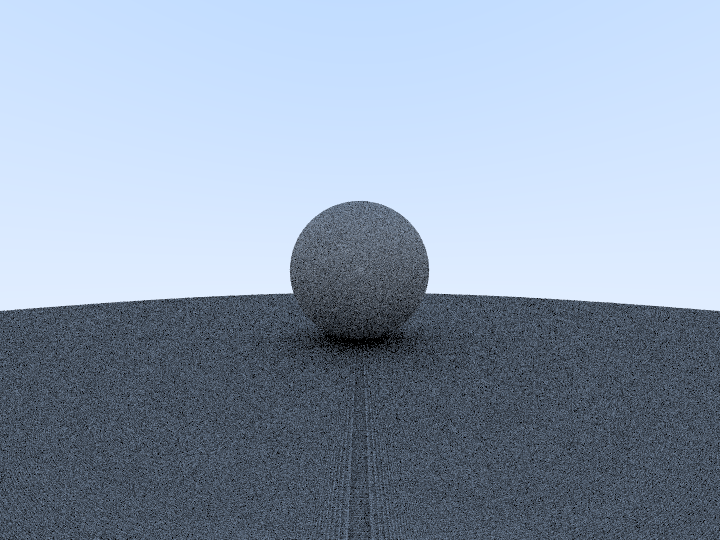
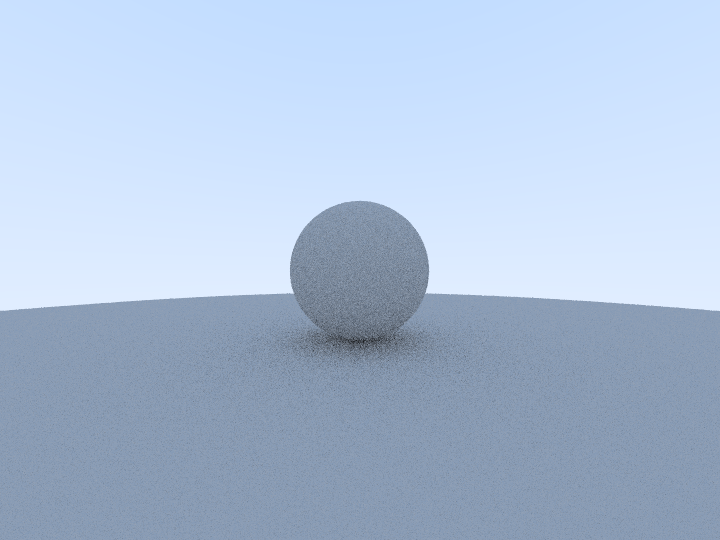
[ADD] 1. add main window; 2. fix shadow acne; 3. use true Lambertian reflection.

diff --git a/engine/rrt/RrtTest.cpp b/engine/rrt/RrtTest.cpp
@@ -17,7 +17,8 @@
 #include "Ray.h"
 #include "Sphere.h"
 #include "HittableList.h"
-#include "GeoLib.h"
+
+#include "GfxLib.h"
 
 #include "SystemUtil.h"
 #include "AssetsMgr.h"
@@ -90,28 +91,27 @@ void RrtTest::draw(const RrtCamera& camera, int width, int height, int channel, 
 		LOG_INFO("scanlines remaining: %d", height - 1 - row);
 		for (int col = 0; col < width; ++col)
 		{
-			outputCol = col;
-			outputRow = height - 1 - row;
-
 			glm::vec3 sampleColor{0.f};
 			float scale = 1.f / float(sampleCnt);
 
-			// antialiasing
+			// create a number of samples to form an average color of a pixel to perform antialiasing
 			for (int i = 0; i < sampleCnt; ++i)
 			{
-				u = (col + GeoLib::random()) / float(width - 1);
-				v = (row + GeoLib::random()) / float(height - 1);
+				u = (col + GfxLib::random()) / float(width - 1);
+				v = (row + GfxLib::random()) / float(height - 1);
 				Ray ray = camera.getRay(u, v);
 				glm::vec3 ret = rayColorDiffuse(ray, world, 0.5f, 10);
 				ret = ret * scale;
 				sampleColor = sampleColor + ret;
 			}
 
-			sampleColor = GeoLib::gamma2Correct(sampleColor);
+			sampleColor = GfxLib::gamma2Correct(sampleColor);
 
-			data[(outputRow * width + outputCol) * channel + 0] = static_cast<uint8_t>(256 * GeoLib::clamp(sampleColor.x, 0.f, 0.999f));
-			data[(outputRow * width + outputCol) * channel + 1] = static_cast<uint8_t>(256 * GeoLib::clamp(sampleColor.y, 0.f, 0.999f));
-			data[(outputRow * width + outputCol) * channel + 2] = static_cast<uint8_t>(256 * GeoLib::clamp(sampleColor.z, 0.f, 0.999f));
+			outputCol = col;
+			outputRow = height - 1 - row;
+			data[(outputRow * width + outputCol) * channel + 0] = static_cast<uint8_t>(256 * GfxLib::clamp(sampleColor.x, 0.f, 0.999f));
+			data[(outputRow * width + outputCol) * channel + 1] = static_cast<uint8_t>(256 * GfxLib::clamp(sampleColor.y, 0.f, 0.999f));
+			data[(outputRow * width + outputCol) * channel + 2] = static_cast<uint8_t>(256 * GfxLib::clamp(sampleColor.z, 0.f, 0.999f));
 		}
 	}
 }
@@ -119,7 +119,8 @@ void RrtTest::draw(const RrtCamera& camera, int width, int height, int channel, 
 glm::vec3 RrtTest::rayColor(const Ray& ray, const Hittable& obj)
 {
 	HitRecord rec;
-	obj.hit(ray, 0.f, FLT_MAX, rec);
+	// use 0.001 instead of 0.f to fix shadow acne
+	obj.hit(ray, 0.001f, FLT_MAX, rec);
 
 	if (rec.hit)
 	{
@@ -133,7 +134,7 @@ glm::vec3 RrtTest::rayColor(const Ray& ray, const Hittable& obj)
 	{
 		glm::vec3 startColor{ 1.f }, endColor{ 0.5f, 0.7f, 1.f };
 		float t = (ray.direction().y + 1.f) * 0.5f;
-		return GeoLib::blend(startColor, endColor, t);
+		return GfxLib::blend(startColor, endColor, t);
 	}
 }
 
@@ -142,11 +143,16 @@ glm::vec3 RrtTest::rayColorDiffuse(const Ray& ray, const Hittable& obj, float re
 	if (reflectDepth <= 0) return glm::vec3(0.f);
 
 	HitRecord rec;
-	obj.hit(ray, 0.f, FLT_MAX, rec);
+	// use 0.001 instead of 0.f to fix shadow acne
+	obj.hit(ray, 0.001f, FLT_MAX, rec);
 
 	if (rec.hit)
 	{
-		glm::vec3 target = rec.pt + rec.n + GeoLib::randomInUnitSphere();
+		// the direction of reflection ray for diffuse material is random(unknown)
+		// so we create a random method to simulate it 
+		// if the target point is on the sphere surface, it produces true Lambertian reflection
+		// reflected ray for Lambertian reflection has higher probability to be scattered close to normal, and its distribution is uniform.
+		glm::vec3 target = rec.pt + rec.n + GfxLib::randomOnUnitSphere();
 		Ray reflect{rec.pt, glm::normalize(target - rec.pt)};
 		return reflectRatio * rayColorDiffuse(reflect, obj, reflectRatio, --reflectDepth);
 	}
@@ -154,6 +160,6 @@ glm::vec3 RrtTest::rayColorDiffuse(const Ray& ray, const Hittable& obj, float re
 	{
 		glm::vec3 startColor{ 1.f }, endColor{ 0.5f, 0.7f, 1.f };
 		float t = (ray.direction().y + 1.f) * 0.5f;
-		return GeoLib::blend(startColor, endColor, t);
+		return GfxLib::blend(startColor, endColor, t);
 	}
 }

diff --git a/engine/gfx/GfxLib.cpp b/engine/gfx/GfxLib.cpp
@@ -1,0 +1,88 @@
+#include <cmath>
+#include <cstdlib>
+
+#include "GfxLib.h"
+
+#include "ViewLib.h"
+
+#include "Ray.h"
+
+#include "Logger.h"
+#ifdef LOCAL_TAG
+#undef LOCAL_TAG
+#endif
+#define LOCAL_TAG "GfxLib"
+
+glm::vec3 GfxLib::blend(const glm::vec3& start, const glm::vec3& end, float t)
+{
+    if (t < 0.f)
+        t = 0.f;
+    else if (t > 1.f)
+        t = 1.f;
+
+    return (1 - t) * start + t * end;
+}
+
+float GfxLib::clamp(float val, float min, float max)
+{
+    if (val < min)
+        return min;
+    else if (val > max)
+        return max;
+    return val;
+}
+
+glm::vec3 GfxLib::gamma2Correct(const glm::vec3& color)
+{
+    glm::vec3 ret;
+    ret.x = std::sqrt(color.x);
+    ret.y = std::sqrt(color.y);
+    ret.z = std::sqrt(color.z);
+    return ret;
+}
+
+double GfxLib::random()
+{
+    // returns a random real in [0, 1)
+    return std::rand() / (RAND_MAX + 1.f);
+}
+
+double GfxLib::random(double min, double max)
+{
+    return min + (max - min) * random();
+}
+
+glm::vec3 GfxLib::randomVec3(double min, double max)
+{
+    return glm::vec3(random(min, max), random(min, max), random(min, max));
+}
+
+glm::vec3 GfxLib::randomInUnitSphere()
+{
+    float theta = random(0.f, 180.f);
+    float phi = random(0.f, 360.f);
+    float radius = random();
+
+    glm::vec3 ret;
+    ViewLib::SCStoCCS(theta, phi, radius, ret);
+
+    return ret;
+
+    /*while (true)
+    {
+        glm::vec3 ret = randomVec3(-1.f, 1.f);
+        if (glm::length(ret) >= 1.f) continue;
+        return ret;
+    }*/
+}
+
+glm::vec3 GfxLib::randomOnUnitSphere()
+{
+    float theta = random(0.f, 180.f);
+    float phi = random(0.f, 360.f);
+
+    glm::vec3 ret;
+    ViewLib::SCStoCCS(theta, phi, 1.f, ret);
+
+    return ret;
+}

diff --git a/ui/LrMainWindow.cpp b/ui/LrMainWindow.cpp
@@ -1,0 +1,52 @@
+#include <QtWidgets/qpushbutton.h>
+#include <QtWidgets/qboxlayout.h>
+#include <QtCore/qrect.h>
+
+#include "LrMainWindow.h"
+#include "LrWidget.h"
+
+#include "RrtTest.h"
+
+#include "Logger.h"
+#ifdef LOCAL_TAG
+#undef LOCAL_TAG
+#endif
+#define LOCAL_TAG "LrMainWindow"
+
+LrMainWindow::LrMainWindow() : QMainWindow(), m_mainWidget(nullptr)
+{
+    QWidget* central = new QWidget;
+    this->setCentralWidget(central);
+
+    QVBoxLayout* mainLayout = new QVBoxLayout;
+
+    m_mainWidget = new LrWidget;
+
+    QPushButton* btn = new QPushButton("Btn0: print Ray Tracing");
+    QFontMetrics metrics(btn->font());
+    int txtWidth = metrics.boundingRect(btn->text()).width();
+    int txtHeight = metrics.boundingRect(btn->text()).height();
+    int padding = 10;
+    btn->setFixedSize(txtWidth + padding, txtHeight + padding);
+
+    mainLayout->addWidget(m_mainWidget);
+    mainLayout->addWidget(btn);
+
+    central->setLayout(mainLayout);
+
+    connect(btn, SIGNAL(clicked()), this, SLOT(btn0Clicked()));
+}
+
+void LrMainWindow::btn0Clicked()
+{
+    //RrtTest::main();
+}
+
+void LrMainWindow::closeEvent(QCloseEvent* e)
+{
+    LOG_INFO("main window close");
+    if (m_mainWidget)
+    {
+        m_mainWidget->quitThread();
+    }
+}

diff --git a/engine/gfx/include/GfxLib.h b/engine/gfx/include/GfxLib.h
@@ -1,26 +1,30 @@
-#ifndef GEO_LIB_H
-#define GEO_LIB_H
+#ifndef GFX_LIB_H
+#define GFX_LIB_H
 
 #include <glm/glm.hpp>
 
 class Ray;
 
-class GeoLib
+class GfxLib
 {
 public:
 	static glm::vec3 blend(const glm::vec3& start, const glm::vec3& end, float t);
 	static float clamp(float val, float min, float max);
+
 	// divide the color by gamma-correct for gamma = 2.0.
-	static glm::vec3 gamma2Correct(const glm::vec3 &color);
+	static glm::vec3 gamma2Correct(const glm::vec3& color);
+
 	static double random();
 	static double random(double min, double max);
+
 	static glm::vec3 randomVec3(double min, double max);
 	static glm::vec3 randomInUnitSphere();
+	static glm::vec3 randomOnUnitSphere();
 
 
 private:
-	GeoLib() {};
-	~GeoLib() = default;
+	GfxLib() {};
+	~GfxLib() = default;
 
 };
 

diff --git a/ui/LrWidget.cpp b/ui/LrWidget.cpp
@@ -30,11 +30,7 @@ QPaintEngine* LrWidget::paintEngine() const { return nullptr; }
 
 void LrWidget::closeEvent(QCloseEvent* e)
 {
-    if (m_renderThread)
-    {
-        m_renderThread->interrupt();
-        m_renderThread->join();
-    }
+    quitThread();
 }
 
 void LrWidget::resizeEvent(QResizeEvent* event)
@@ -42,5 +38,14 @@ void LrWidget::resizeEvent(QResizeEvent* event)
     if (m_renderThread)
     {
         m_renderThread->onWindowSizeChange(event->size().width(), event->size().height());
+    }
+}
+
+void LrWidget::quitThread()
+{
+    if (m_renderThread)
+    {
+        m_renderThread->interrupt();
+        m_renderThread->join();
     }
 }

diff --git a/main.cpp b/main.cpp
@@ -1,9 +1,7 @@
 #include <QtWidgets/QApplication>
 #include <QtWidgets/qdesktopwidget.h>
 
-#include "LrWidget.h"
-#include "RrtTest.h"
-
+#include "LrMainWindow.h"
 #include "Logger.h"
 
 void onInit()
@@ -33,11 +31,9 @@ int main(int argc, char *argv[])
     int top = (int)((desktop.height() - height) * 0.5f);
 
     // show ui
-    LrWidget w;
-    w.setGeometry(left, top, width, height);
-    w.show();
-
-    RrtTest::main();
+    LrMainWindow main;
+    main.setGeometry(left, top, width, height);
+    main.show();
 
     int ret = a.exec();
 

diff --git a/ui/include/LrMainWindow.h b/ui/include/LrMainWindow.h
@@ -1,0 +1,29 @@
+#ifndef LR_MAIN_WINDOW_H
+#define LR_MAIN_WINDOW_H
+
+#include <QtWidgets/qmainwindow.h>
+
+class LrWidget;
+
+class LrMainWindow : public QMainWindow
+{
+	Q_OBJECT
+public:
+	LrMainWindow();
+
+	virtual ~LrMainWindow() = default;
+
+public Q_SLOTS:
+	void btn0Clicked();
+
+protected:
+	virtual void closeEvent(QCloseEvent* e) override;
+
+private:
+	LrWidget *m_mainWidget;
+};
+
+
+
+#endif // !LR_MAIN_WINDOW_H
+

diff --git a/ui/include/LrWidget.h b/ui/include/LrWidget.h
@@ -17,6 +17,8 @@ public:
 
     virtual QPaintEngine* paintEngine() const override;
 
+    void quitThread();
+
 protected:
     virtual void closeEvent(QCloseEvent* e) override;
     virtual void resizeEvent(QResizeEvent* event) override;
